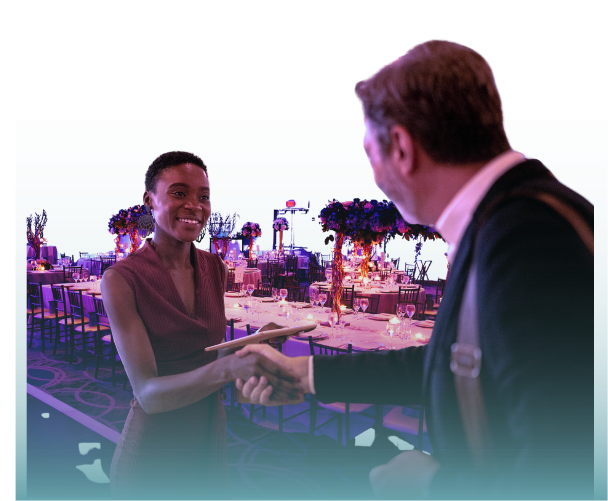
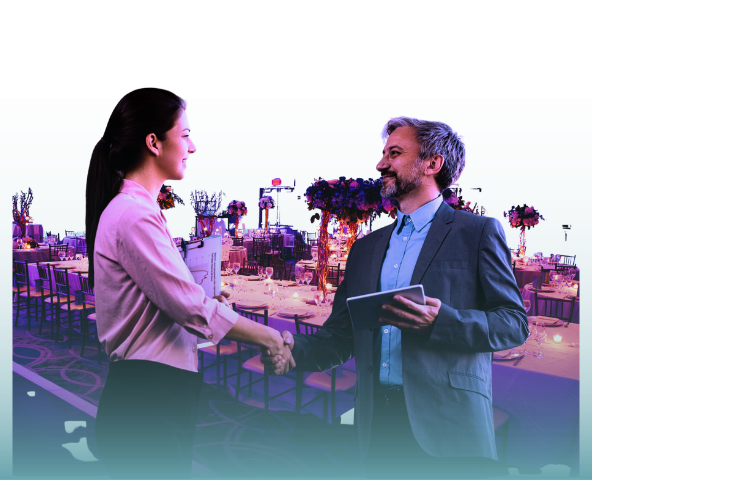
open tabs on One PR Program by click only remove the hover opening

diff --git a/src/pages/InfluencerRelationsPage.css b/src/pages/InfluencerRelationsPage.css
@@ -350,6 +350,13 @@
   object-fit: contain;
 }
 
+.influencer-relations-page .influencer-beyond__image {
+  width: 100%;
+  max-width: 680px;
+  transform: scale(1.2);
+  transform-origin: right center;
+}
+
 .social-pr-page .influencer-beyond__image {
   width: 108%;
   max-width: 610px;
@@ -471,6 +478,13 @@
 
   .influencer-beyond__image {
     justify-self: center;
+  }
+
+  .influencer-relations-page .influencer-beyond__image {
+    width: 100%;
+    max-width: 680px;
+    transform: scale(1.08);
+    transform-origin: center;
   }
 
   .social-pr-page .influencer-beyond__image {

diff --git a/src/pages/HomePage.js b/src/pages/HomePage.js
@@ -155,8 +155,6 @@ function HomePage({
                       id={buttonId}
                       type="button"
                       className={`service-tab${isActive ? ' is-active' : ''}`}
-                      onMouseEnter={() => setActiveService(item.label)}
-                      onFocus={() => setActiveService(item.label)}
                       onClick={() => setActiveService(item.label)}
                       aria-expanded={isActive}
                       aria-controls={panelId}

diff --git a/src/App.js b/src/App.js
@@ -1146,8 +1146,6 @@ function App() {
                       id={buttonId}
                       type="button"
                       className={`service-tab${isActive ? ' is-active' : ''}`}
-                      onMouseEnter={() => setActiveService(item.label)}
-                      onFocus={() => setActiveService(item.label)}
                       onClick={() => setActiveService(item.label)}
                       aria-expanded={isActive}
                       aria-controls={panelId}
